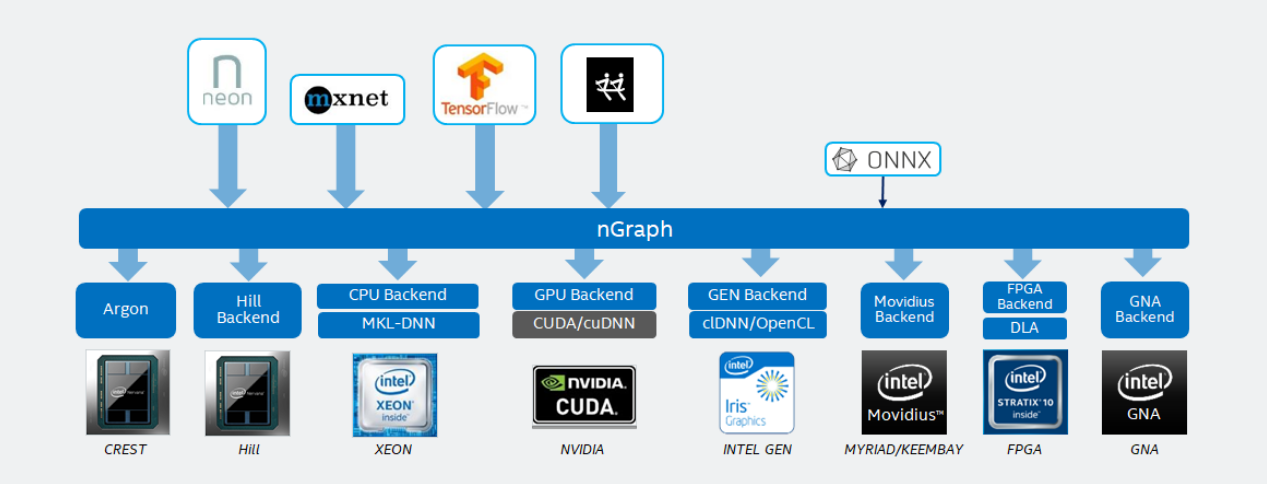
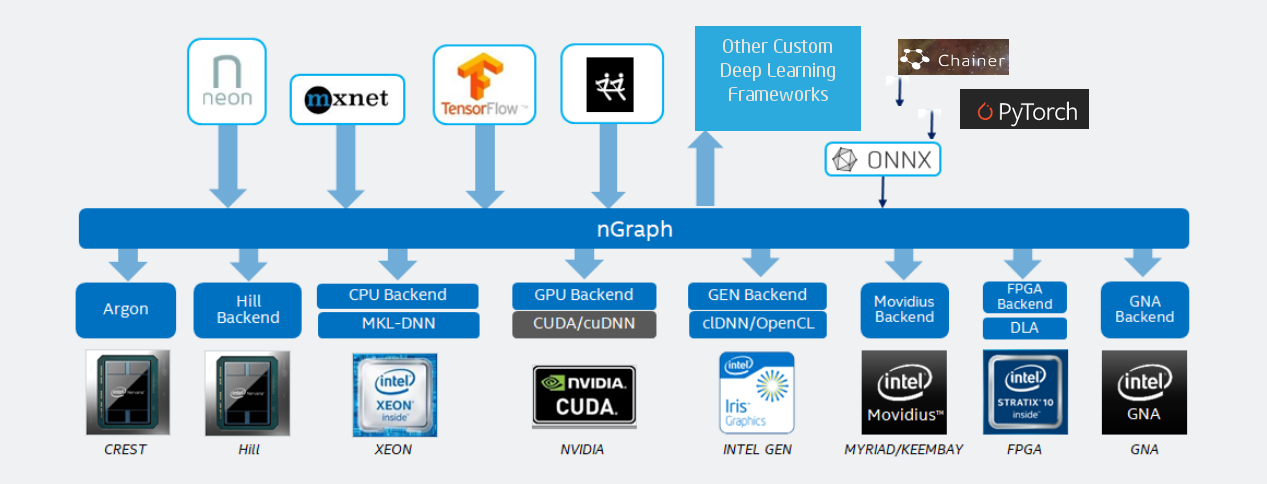
Draft of updates for JIRA tasks WIP

Changed region(s): [[0.5233, 0.031, 0.6772, 0.4339], [0.708, 0.186, 0.8619, 0.2789], [0.708, 0.062, 0.8003, 0.155]]

diff --git a/CONTRIB.md b/CONTRIB.md
@@ -1,28 +1,37 @@
+Contributor Guidelines
+======================
 
-Core Contributor Guidelines
-===========================
+http://ngraph.nervanasys.com/docs/latest/project/code-contributor-README.html
+
+
+License
+-------
+
+All contributed code must be compatible with the [Apache
+2](https://www.apache.org/licenses/LICENSE-2.0) license, preferably by
+being contributed under the Apache 2 license. Code contributed with
+another license will need the license reviewed by Intel before it can be
+accepted.
 
 Code formatting
 ---------------
 
-For [code contributions], all C/C++ source code in the repository, 
-including the test code, must adhere to the source-code formatting 
-and style guidelines described here.
-
-For [doc contributions], we use restructured text, not markdown. 
+All C/C++ source code in the repository, including the test code, must
+adhere to the source-code formatting and style guidelines described
+here. The coding style described here applies to the nGraph repository.
+Related repositories may make adjustements to better match the coding
+styles of libraries they are using.
 
 ### Adding ops to nGraph Core
 
 Our design philosophy is that the graph is not a script for running
-kernels; rather, the graph is a snapshot of the computation's building
-blocks which we call `ops`. Compilation should match `ops` to
-appropriate kernels for the backend(s) in use. Thus, we expect that
-adding of new Core ops should be infrequent and that most functionality
-instead gets added with new functions that build sub-graphs from
-existing core ops.
-
-The coding style described here should apply to both Core `ops`, and to
-any functions that build out (upon) sub-graphs from the core.
+optimized kernels; rather, the graph is a specification for a
+computation composed of basic building blocks which we call `ops`.
+Compilation should match groups of `ops` to appropriate optimal and
+semantically-equivalent groups of kernels for the backend(s) in use.
+Thus, we expect that adding of new Core ops should be infrequent and
+that most functionality instead gets added with new functions that build
+sub-graphs from existing core ops.
 
 ### Coding style
 
@@ -32,7 +41,7 @@ it. To this end, we employ coding standards that facilitate
 understanding of *what nGraph components are doing*. Programs are
 easiest to understand when they can be understood locally; if most local
 changes have local impact, you do not need to dig through multiple files
-to understand what something does.
+to understand what something does and if it is safe to modify.
 
 #### Names
 
@@ -41,15 +50,16 @@ casing standards:
 
 -   Define C++ class or type names with `CamelCase`.
 -   Assign template parameters with `UPPER_SNAKE_CASE`.
--   Case variable and function names with `snake_case`.
+-   Case variable and function names with `lower_snake_case`.
 
-Method names for basic accessors are prefixed by `get_` or `set_` and
-should have simple $\mathcal{O}(1)$ implementations:
+Method names for basic accessors are prefixed by `get_`, `is_`, or
+`set_` and should have simple $\mathcal{O}(1)$ implementations:
 
 -   A `get_` method should be externally idempotent. It may perform some
-    simple initialization and cache the result for later use.
+    simple initialization and cache the result for later use. Trivial
+    `get_` methods can be defined in a header file. If a method is
+    non-trivial, that is often a sign that it is not a basic accessor.
 -   An `is_` may be used instead of `get_` for boolean accessors.
-    Trivial `get_` methods can be defined in a header file.
 -   A `set_` method should change the value returned by the
     corresponding `get_` method.
     -   Use `set_is_` if using `is_` to get a value.
@@ -79,8 +89,8 @@ should have simple $\mathcal{O}(1)$ implementations:
         -   Doing so leaks the alias into users of the header, including
             headers that follow.
 
-        - It is okay to use `using` with local scope, such as inside 
-          a class definiton.
+        - It is okay to use `using` with local scope, such as inside a class 
+          definiton.
 
     -   Be careful of C++'s implicit namespace inclusions. For example,
         if a parameter's type is from another namespace, that namespace
@@ -96,10 +106,10 @@ should have simple $\mathcal{O}(1)$ implementations:
 -   Use `.hpp` for headers and `.cpp` for implementation.
 -   Reflect the namespace nesting in the directory hierarchy.
 -   Unit test files are in the `tests` directory.
-    -   Tranformer-dependent tests are tests running on the default
+    -   Transformer-dependent tests are tests running on the default
         transformer or specifying a transformer. For these, use the form
 
-        ```
+        ``` 
         TEST(file_name, test_name)
         ```
 
@@ -111,7 +121,7 @@ should have simple $\mathcal{O}(1)$ implementations:
             of the file.
         -   Use
 
-            ```
+            ``` 
             NGRAPH_TEST(${BACKEND_NAME}, test_name)
             ```
 
@@ -143,35 +153,48 @@ merge conflicts.
         the groups downward from system-level to 3rd-party to `ngraph`.
     -   Formatting will keep the files in each group in
         alphabetic order.
-    -   Use this syntax for files that **do not change during
+    -   Use this syntax for files that **do not change during nGraph
         development**; they will not be checked for changes
         during builds. Normally this will be everything but the ngraph
         files:
 
-        `#include <file>`
+        ``` 
+        #include <file>
+        ```
 
-    -   Use this syntax for files that **are changing during
+    -   Use this syntax for files that **are changing during nGraph
         development**; they will be checked for changes during builds.
         Normally this will be ngraph headers:
 
-        `#include "file"`
+        ``` 
+        #include "file"
+        ```
 
     -   Use this syntax for system C headers with C++ wrappers:
 
-        ` #include <c...>`
+        ``` 
+        #include <c...>
+        ```
 
--   To guard against multiple inclusion, avoid using the `#define X_H`
-    style. Use this syntax instead:
+-   To guard against multiple inclusion, use:
 
-    `#pragma once`
+    ``` 
+    #pragma once
+    ```
 
+    -   The syntax is a compiler extension that has been adopted by all
+        supported compilers.
 -   The initialization
 
-    `Foo x{4, 5};`
+    ``` 
+    Foo x{4, 5};
+    ```
 
     is preferred over
 
-    `Foo x(4, 5);`
+    ``` 
+    Foo x(4, 5);
+    ```
 
 -   Indentation should be accompanied by braces; this includes
     single-line bodies for conditionals and loops.
@@ -189,29 +212,31 @@ merge conflicts.
     reference, `auto` will strip the reference unless you use `auto&`:
     -   Don't do things like
 
-            auto s = Shape{2,3};
+        ``` 
+        auto s = Shape{2,3};
+        ```
 
         Instead, use
 
-            Shape s{2, 3};
-
+        ``` 
+        Shape s{2, 3};
+        ```
 
     -   Indicate the type in the variable name.
 
 -   One variable declaration/definition per line
     -   Don't use the C-style
 
-        ```
+        ``` 
         int x, y, *z;
         ```
 
         Instead, use:
 
-            int x;
-            int y;
-            int* z;
-       
+        ``` 
+        int x;
+        int y;
+        int* z;
+        ```
 
 
-[code contributions]:http://ngraph.nervanasys.com/docs/latest/project/code-contributor-README.html
-[doc contributions]:http://ngraph.nervanasys.com/docs/latest/project/doc-contributor-README.html

diff --git a/README.md b/README.md
@@ -1,11 +1,30 @@
-# nGraph library [![Build Status][build-status-badge]][build-status]
+# nGraph Library [![Build Status][build-status-badge]][build-status]
 
-Welcome to Intel® nGraph™, an open source C++ library, compiler and
-runtime. This project enables modern compute platforms to run and
-train Deep Neural Network (DNN) models. It is framework-neutral and
-supports a variety of backends used by Deep Learning (DL) frameworks.
 
-![nGraph ecosystem][ngraph-ecosystem]
+Welcome to the open-source repository for the Intel® nGraph™ Library. Our code 
+base provides a Compiler and runtime suite of tools (APIs) designed to give 
+developers maximum flexibility for their software design, allowing them to 
+create or customize a scalable solution using any framework while also avoiding 
+device-level hardware lock-in that is so common with many AI vendors. A neural 
+network model compiled with nGraph can run on any of our currently-supported 
+backends, and it will be able to run on any backends we support in the future 
+with minimal disruption to your model. With nGraph, you can co-evolve your 
+software and hardware's capabilities to stay at the forefront of your industry. 
+
+The nGraph Compiler is Intel's graph compiler for Artifical Neural Networks. 
+Documentation in this repo describes how you can program any framework 
+to run training and inference computations on a variety of Backends including 
+Intel® Architecture Processors (CPUs), Intel® Nervana™ Neural Network Processors 
+(NNPs), cuDNN-compatible graphics cards (GPUs), custom VPUs like [Movidius], and
+many others. The default CPU Backend also provides an interactive *Interpreter* 
+mode that can be used to zero in on a DL model and create custom nGraph 
+optimizations that can be used to further accelerate training or inference, in 
+whatever scenario you need.  
+
+nGraph provides both  a C++ API for framework developers and a Python API which 
+can run inference on models imported from ONNX. 
+
+![avoid lockin][develop-without-lockin]
 
 
 |Framework   | bridge available? | ONNX support?  |
@@ -14,6 +33,7 @@ supports a variety of backends used by Deep Learning (DL) frameworks.
 | MXNet*     | yes               | yes            |
 | TensorFlow*| yes               | yes            |
 | PyTorch*   | not yet           | yes            |
+| Chainer*   | not yet           | yes            |
 | CNTK*      | not yet           | yes            |
 | Caffe2*    | not yet           | yes            |
 
@@ -36,8 +56,9 @@ Please submit your questions, feature requests and bug reports via
 ## How to Contribute
 
 We welcome community contributions to nGraph. If you have an idea how
-to improve the library:
+to improve the Library:
 
+* See the [contrib guide] for code formatting and style guidelines.
 * Share your proposal via [GitHub issues].
 * Ensure you can build the product and run all the examples with your patch.
 * In the case of a larger feature, create a test.
@@ -52,8 +73,11 @@ to improve the library:
 [install]: http://ngraph.nervanasys.com/docs/latest/install.html
 [framework integration guides]: http://ngraph.nervanasys.com/docs/latest/framework-integration-guides.html
 [Github issues]: https://github.com/NervanaSystems/ngraph/issues
+[contrib guide]: http://ngraph.nervanasys.com/docs/latest/project/code-contributor-README.html
 [pull request]: https://github.com/NervanaSystems/ngraph/pulls
 [how to import]: http://ngraph.nervanasys.com/docs/latest/howto/import.html
 [ngraph-ecosystem]: doc/sphinx/source/graphics/ngraph-ecosystem.png "nGraph Ecosystem"
 [build-status]: https://travis-ci.org/NervanaSystems/ngraph/branches
 [build-status-badge]: https://travis-ci.org/NervanaSystems/ngraph.svg?branch=master
+[develop-without-lockin]: doc/sphinx/source/graphics/develop-without-lockin.png "Develop on any part of the stack wtihout lockin"
+[Movidius]:https://www.movidius.com/solutions/vision-processing-unit
